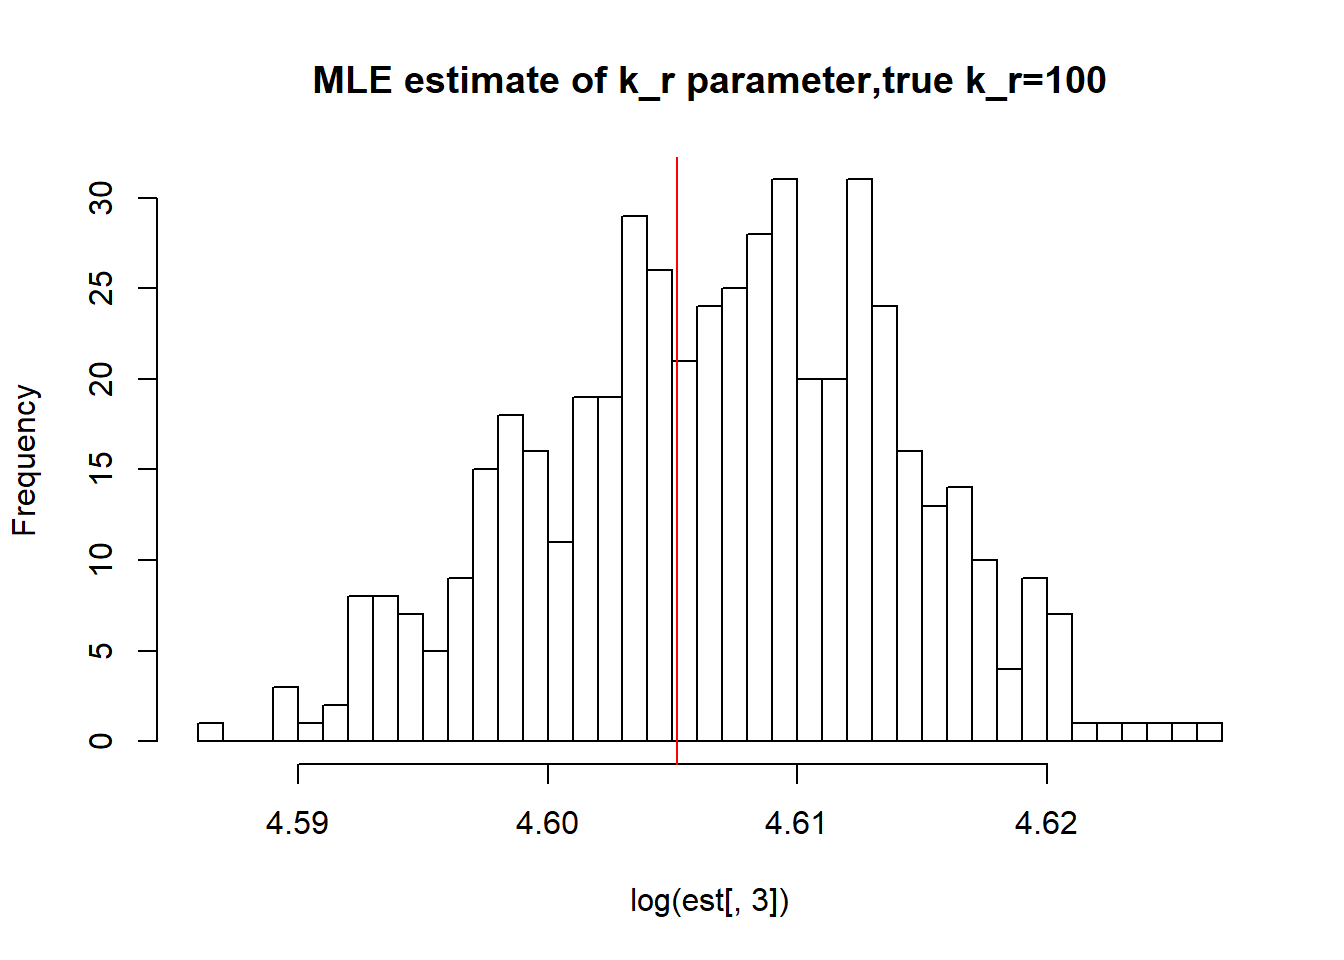
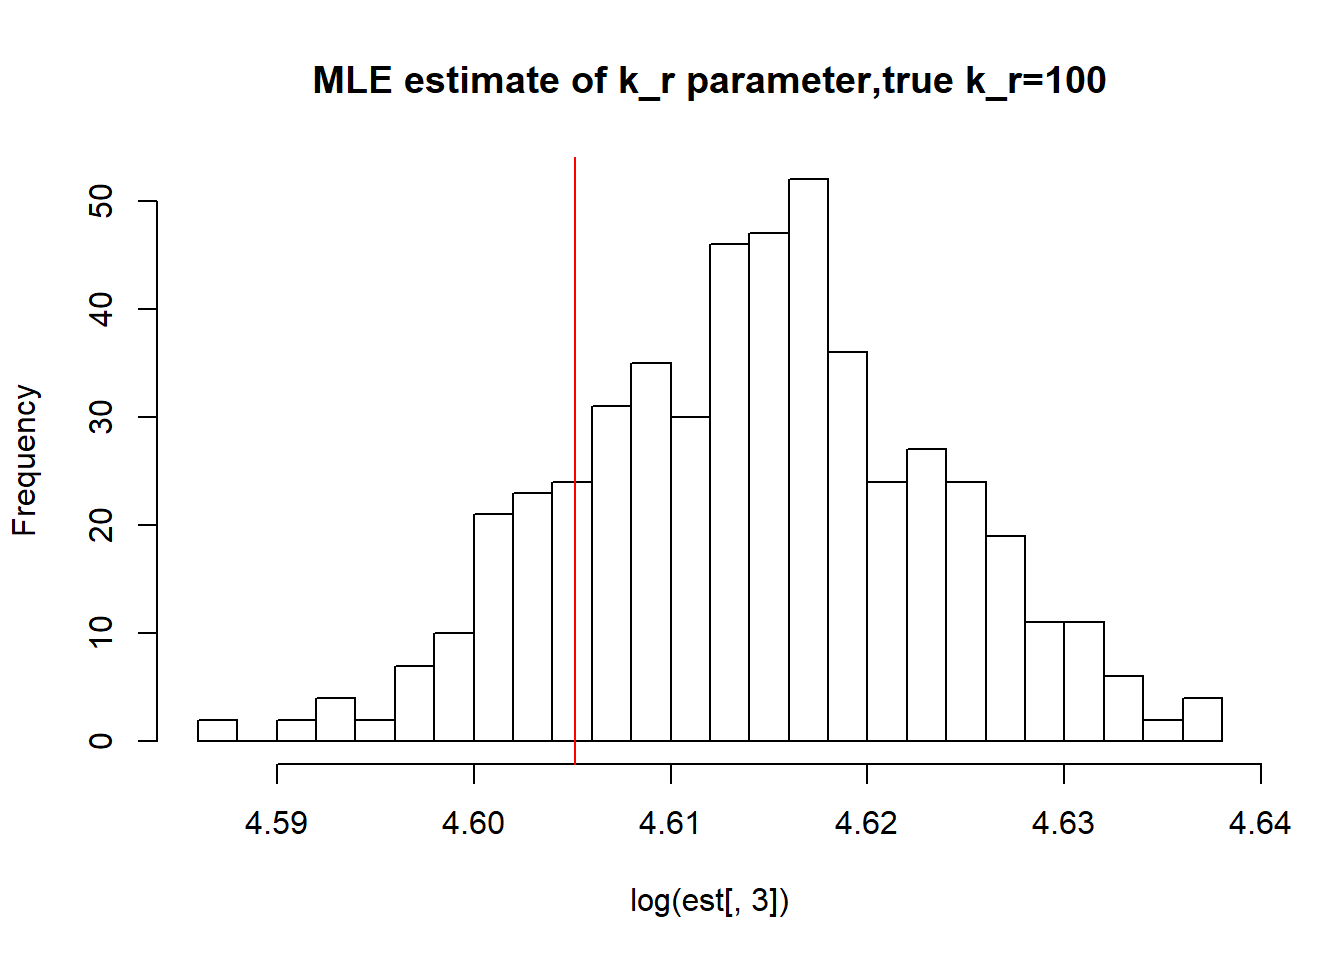
Build site.

diff --git a/docs/MLE_bootstrap.html b/docs/MLE_bootstrap.html
@@ -458,10 +458,10 @@ analysis/MLE.py
 <div class="panel panel-default">
 <div class="panel-heading">
 <p class="panel-title">
-<a data-toggle="collapse" data-parent="#workflowr-checks" href="#strongRepositoryversionstrongahrefhttpsgithubcomMargareth2407ThesissingleRNAtree86d29cbbf0da8c08f0a677cfd14e5e26a390b4b7targetblank86d29cba"> <span class="glyphicon glyphicon-ok text-success" aria-hidden="true"></span> <strong>Repository version:</strong> <a href="https://github.com/Margareth2407/Thesis_single_RNA/tree/86d29cbbf0da8c08f0a677cfd14e5e26a390b4b7" target="_blank">86d29cb</a> </a>
+<a data-toggle="collapse" data-parent="#workflowr-checks" href="#strongRepositoryversionstrongahrefhttpsgithubcomMargareth2407ThesissingleRNAtreeea9bc6ad3fb13eb398ceeb4c1706df40b011e1d3targetblankea9bc6aa"> <span class="glyphicon glyphicon-ok text-success" aria-hidden="true"></span> <strong>Repository version:</strong> <a href="https://github.com/Margareth2407/Thesis_single_RNA/tree/ea9bc6ad3fb13eb398ceeb4c1706df40b011e1d3" target="_blank">ea9bc6a</a> </a>
 </p>
 </div>
[2 lines of base64/hex data omitted]
 <div class="panel-body">
 <p>
 Great! You are using Git for version control. Tracking code development and connecting the code version to the results is critical for reproducibility. The version displayed above was the version of the Git repository at the time these results were generated. <br><br> Note that you need to be careful to ensure that all relevant files for the analysis have been committed to Git prior to generating the results (you can use <code>wflow_publish</code> or <code>wflow_git_commit</code>). workflowr only checks the R Markdown file, but you know if there are other scripts or data files that it depends on. Below is the status of the Git repository when the results were generated:
@@ -528,47 +528,47 @@ hist(log(est[,1]),breaks=30, main=&quot;MLE estimate of k_on parameter,true k_on
 abline(v=log(0.1),col=&#39;red&#39;)</code></pre>
 <p><img src="figure/MLE_bootstrap.Rmd/unnamed-chunk-3-1.png" width="672" style="display: block; margin: auto;" /></p>
 <pre class="r"><code>paste(&quot;true k_on is 0.1;&quot;,&quot;k_on mean;&quot;,round(mean(est[,1],na.rm=TRUE),3),&quot;k_on median&quot;, round(median(est[,1],na.rm=TRUE),3),&quot;k_on st.deviation&quot;,round(sqrt(var(est[,1],na.rm=TRUE)),3))</code></pre>
-<pre><code>[1] &quot;true k_on is 0.1; k_on mean; 0.099 k_on median 0.099 k_on st.deviation 0.01&quot;</code></pre>
+<pre><code>[1] &quot;true k_on is 0.1; k_on mean; 0.111 k_on median 0.111 k_on st.deviation 0.011&quot;</code></pre>
 <pre class="r"><code>hist(log(est[,2]),breaks=30, main=&quot;MLE estimate of k_off parameter, true k_off=0.1&quot;)
 abline(v=log(0.1),col=&#39;red&#39;)</code></pre>
 <p><img src="figure/MLE_bootstrap.Rmd/unnamed-chunk-3-2.png" width="672" style="display: block; margin: auto;" /></p>
 <pre class="r"><code>paste(&quot;true k_off is 0.1;&quot;,&quot;k_off mean;&quot;,round(mean(est[,2],na.rm=TRUE),3),&quot;k_off median&quot;, round(median(est[,2],na.rm=TRUE),3),&quot;k_off st.deviation&quot;,round(sqrt(var(est[,2],na.rm=TRUE)),3))</code></pre>
-<pre><code>[1] &quot;true k_off is 0.1; k_off mean; 0.102 k_off median 0.101 k_off st.deviation 0.012&quot;</code></pre>
+<pre><code>[1] &quot;true k_off is 0.1; k_off mean; 0.104 k_off median 0.104 k_off st.deviation 0.012&quot;</code></pre>
 <pre class="r"><code>hist(log(est[,3]),breaks=30, main=&quot;MLE estimate of k_r parameter,true k_r=100&quot;)
 abline(v=log(100),col=&#39;red&#39;)</code></pre>
 <p><img src="figure/MLE_bootstrap.Rmd/unnamed-chunk-3-3.png" width="672" style="display: block; margin: auto;" /></p>
 <pre class="r"><code>paste(&quot;true k_r is 100;&quot;,&quot;k_r mean;&quot;,round(mean(est[,3],na.rm=TRUE),3),&quot;k_r median&quot;, round(median(est[,3],na.rm=TRUE),3),&quot;k_r st.deviation&quot;,round(sqrt(var(est[,3],na.rm=TRUE)),3))</code></pre>
-<pre><code>[1] &quot;true k_r is 100; k_r mean; 100.181 k_r median 100.216 k_r st.deviation 0.716&quot;</code></pre>
+<pre><code>[1] &quot;true k_r is 100; k_r mean; 100.92 k_r median 100.932 k_r st.deviation 0.923&quot;</code></pre>
 <p>As we saw in previous vignette, this small <span class="math inline">\(k_{on}\)</span>, <span class="math inline">\(k_{off}\)</span> scenario has clearly identifiable solutions which is confirmed by boorstrap as we see again mean, median are close to the true value and standart deviation is small as well.</p>
 </div>
 <div id="ii-large-k_on-and-k_off-case" class="section level2">
 <h2>II) Large <span class="math inline">\(k_{on}\)</span> and <span class="math inline">\(k_{off}\)</span> case:</h2>
 <p><img src="figure/MLE_bootstrap.Rmd/unnamed-chunk-4-1.png" width="672" style="display: block; margin: auto;" /></p>
-<pre><code>[1] &quot;true k_on is 10; k_on mean; 38.153 k_on median 27.347 k_on st.deviation 28.42&quot;</code></pre>
+<pre><code>[1] &quot;true k_on is 50; k_on mean; 14.174 k_on median 12.676 k_on st.deviation 6.091&quot;</code></pre>
 <p><img src="figure/MLE_bootstrap.Rmd/unnamed-chunk-4-2.png" width="672" style="display: block; margin: auto;" /></p>
-<pre><code>[1] &quot;true k_off is 10; k_off mean; 48.793 k_off median 7.785 k_off st.deviation 99.272&quot;</code></pre>
+<pre><code>[1] &quot;true k_off is 50; k_off mean; 2.814 k_off median 1.825 k_off st.deviation 3.739&quot;</code></pre>
 <p><img src="figure/MLE_bootstrap.Rmd/unnamed-chunk-4-3.png" width="672" style="display: block; margin: auto;" /></p>
-<pre><code>[1] &quot;true k_r is 100; k_r mean; 85.503 k_r median 64.28 k_r st.deviation 50.133&quot;</code></pre>
+<pre><code>[1] &quot;true k_r is 100; k_r mean; 58.818 k_r median 57.884 k_r st.deviation 4.354&quot;</code></pre>
 <p>Large <span class="math inline">\(k_{on}\)</span> and <span class="math inline">\(k_{off}\)</span> as said earlier produces a dataset with unidentifiable parameters as we do not approach true values with neigher mean or median with huge standart deviation.</p>
 </div>
 <div id="iii-large-value-of-k_off-and-small-k_on-case" class="section level2">
 <h2>III) Large value of <span class="math inline">\(k_{off}\)</span> and small <span class="math inline">\(k_{on}\)</span> case:</h2>
 <p><img src="figure/MLE_bootstrap.Rmd/unnamed-chunk-5-1.png" width="672" style="display: block; margin: auto;" /></p>
-<pre><code>[1] &quot;true k_on is 1; k_on mean; 0.929 k_on median 0.925 k_on st.deviation 0.093&quot;</code></pre>
+<pre><code>[1] &quot;true k_on is 1; k_on mean; 0.94 k_on median 0.94 k_on st.deviation 0.097&quot;</code></pre>
 <p><img src="figure/MLE_bootstrap.Rmd/unnamed-chunk-5-2.png" width="672" style="display: block; margin: auto;" /></p>
-<pre><code>[1] &quot;true k_off is 10; k_off mean; 8.924 k_off median 5.737 k_off st.deviation 17.038&quot;</code></pre>
+<pre><code>[1] &quot;true k_off is 10; k_off mean; 32.881 k_off median 10.503 k_off st.deviation 94.366&quot;</code></pre>
 <p><img src="figure/MLE_bootstrap.Rmd/unnamed-chunk-5-3.png" width="672" style="display: block; margin: auto;" /></p>
-<pre><code>[1] &quot;true k_r is 100; k_r mean; 91.806 k_r median 67.153 k_r st.deviation 132.554&quot;</code></pre>
+<pre><code>[1] &quot;true k_r is 100; k_r mean; 324.608 k_r median 118.082 k_r st.deviation 853.557&quot;</code></pre>
 <p>Big <span class="math inline">\(k_{off}\)</span> and small <span class="math inline">\(k_{on}\)</span> values allow us to identify <span class="math inline">\(k_{on}\)</span> parameter, but prevent correct estimation of <span class="math inline">\(k_{off}\)</span> and <span class="math inline">\(k_{r}\)</span>. We see high standart deviation of the parameters as well as some huge outliers.</p>
 </div>
 <div id="iv-small-value-of-k_off-and-big-k_on" class="section level2">
 <h2>IV) Small value of <span class="math inline">\(k_{off}\)</span> and big <span class="math inline">\(k_{on}\)</span></h2>
 <p><img src="figure/MLE_bootstrap.Rmd/unnamed-chunk-6-1.png" width="672" style="display: block; margin: auto;" /></p>
-<pre><code>[1] &quot;true k_on is 10; k_on mean; 10.99 k_on median 9.844 k_on st.deviation 5.277&quot;</code></pre>
+<pre><code>[1] &quot;true k_on is 10; k_on mean; 13.307 k_on median 12.751 k_on st.deviation 3.047&quot;</code></pre>
 <p><img src="figure/MLE_bootstrap.Rmd/unnamed-chunk-6-2.png" width="672" style="display: block; margin: auto;" /></p>
-<pre><code>[1] &quot;true k_off is 1; k_off mean; 1.556 k_off median 0.933 k_off st.deviation 7.027&quot;</code></pre>
+<pre><code>[1] &quot;true k_off is 1; k_off mean; 1.714 k_off median 1.51 k_off st.deviation 0.857&quot;</code></pre>
 <p><img src="figure/MLE_bootstrap.Rmd/unnamed-chunk-6-3.png" width="672" style="display: block; margin: auto;" /></p>
-<pre><code>[1] &quot;true k_r is 100; k_r mean; 100.365 k_r median 99.531 k_r st.deviation 7.781&quot;</code></pre>
+<pre><code>[1] &quot;true k_r is 100; k_r mean; 102.532 k_r median 102.14 k_r st.deviation 2.738&quot;</code></pre>
 <p>We again observe that parameters get estimated quite accurately, even though not as good as in case I. Standart deviation is reasonable, while mean and median approach true value.</p>
 <br>
 <p>
